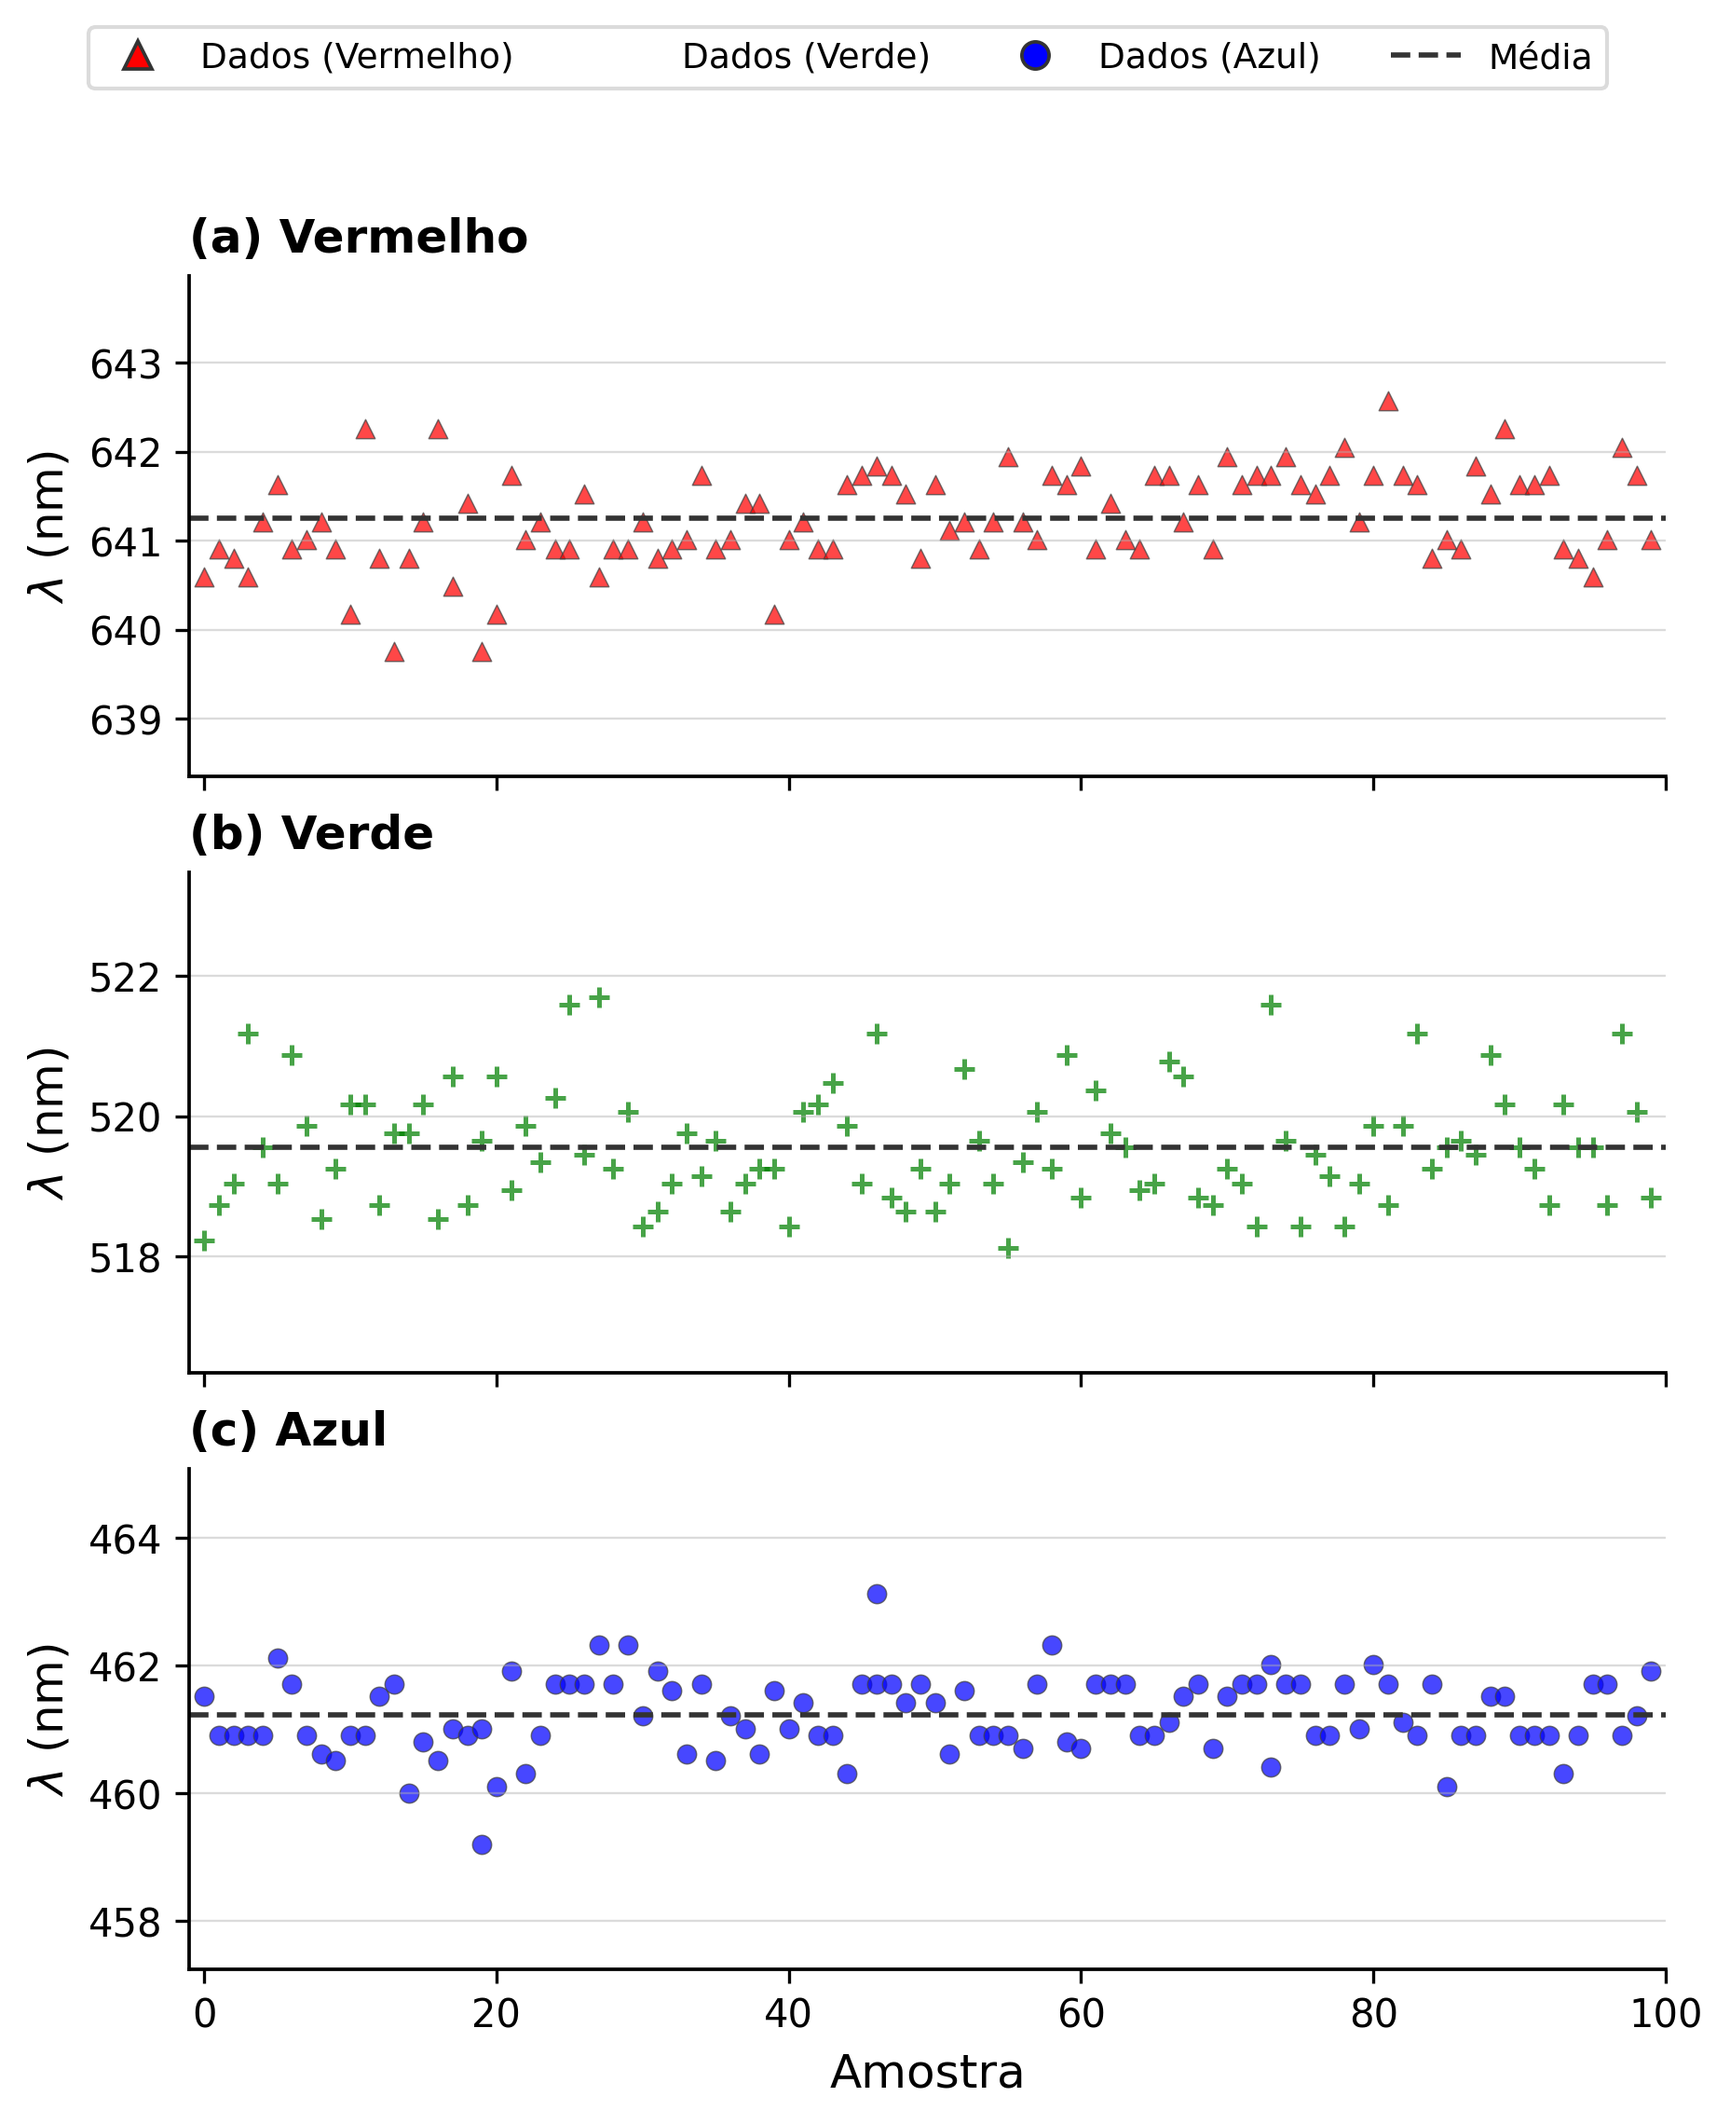
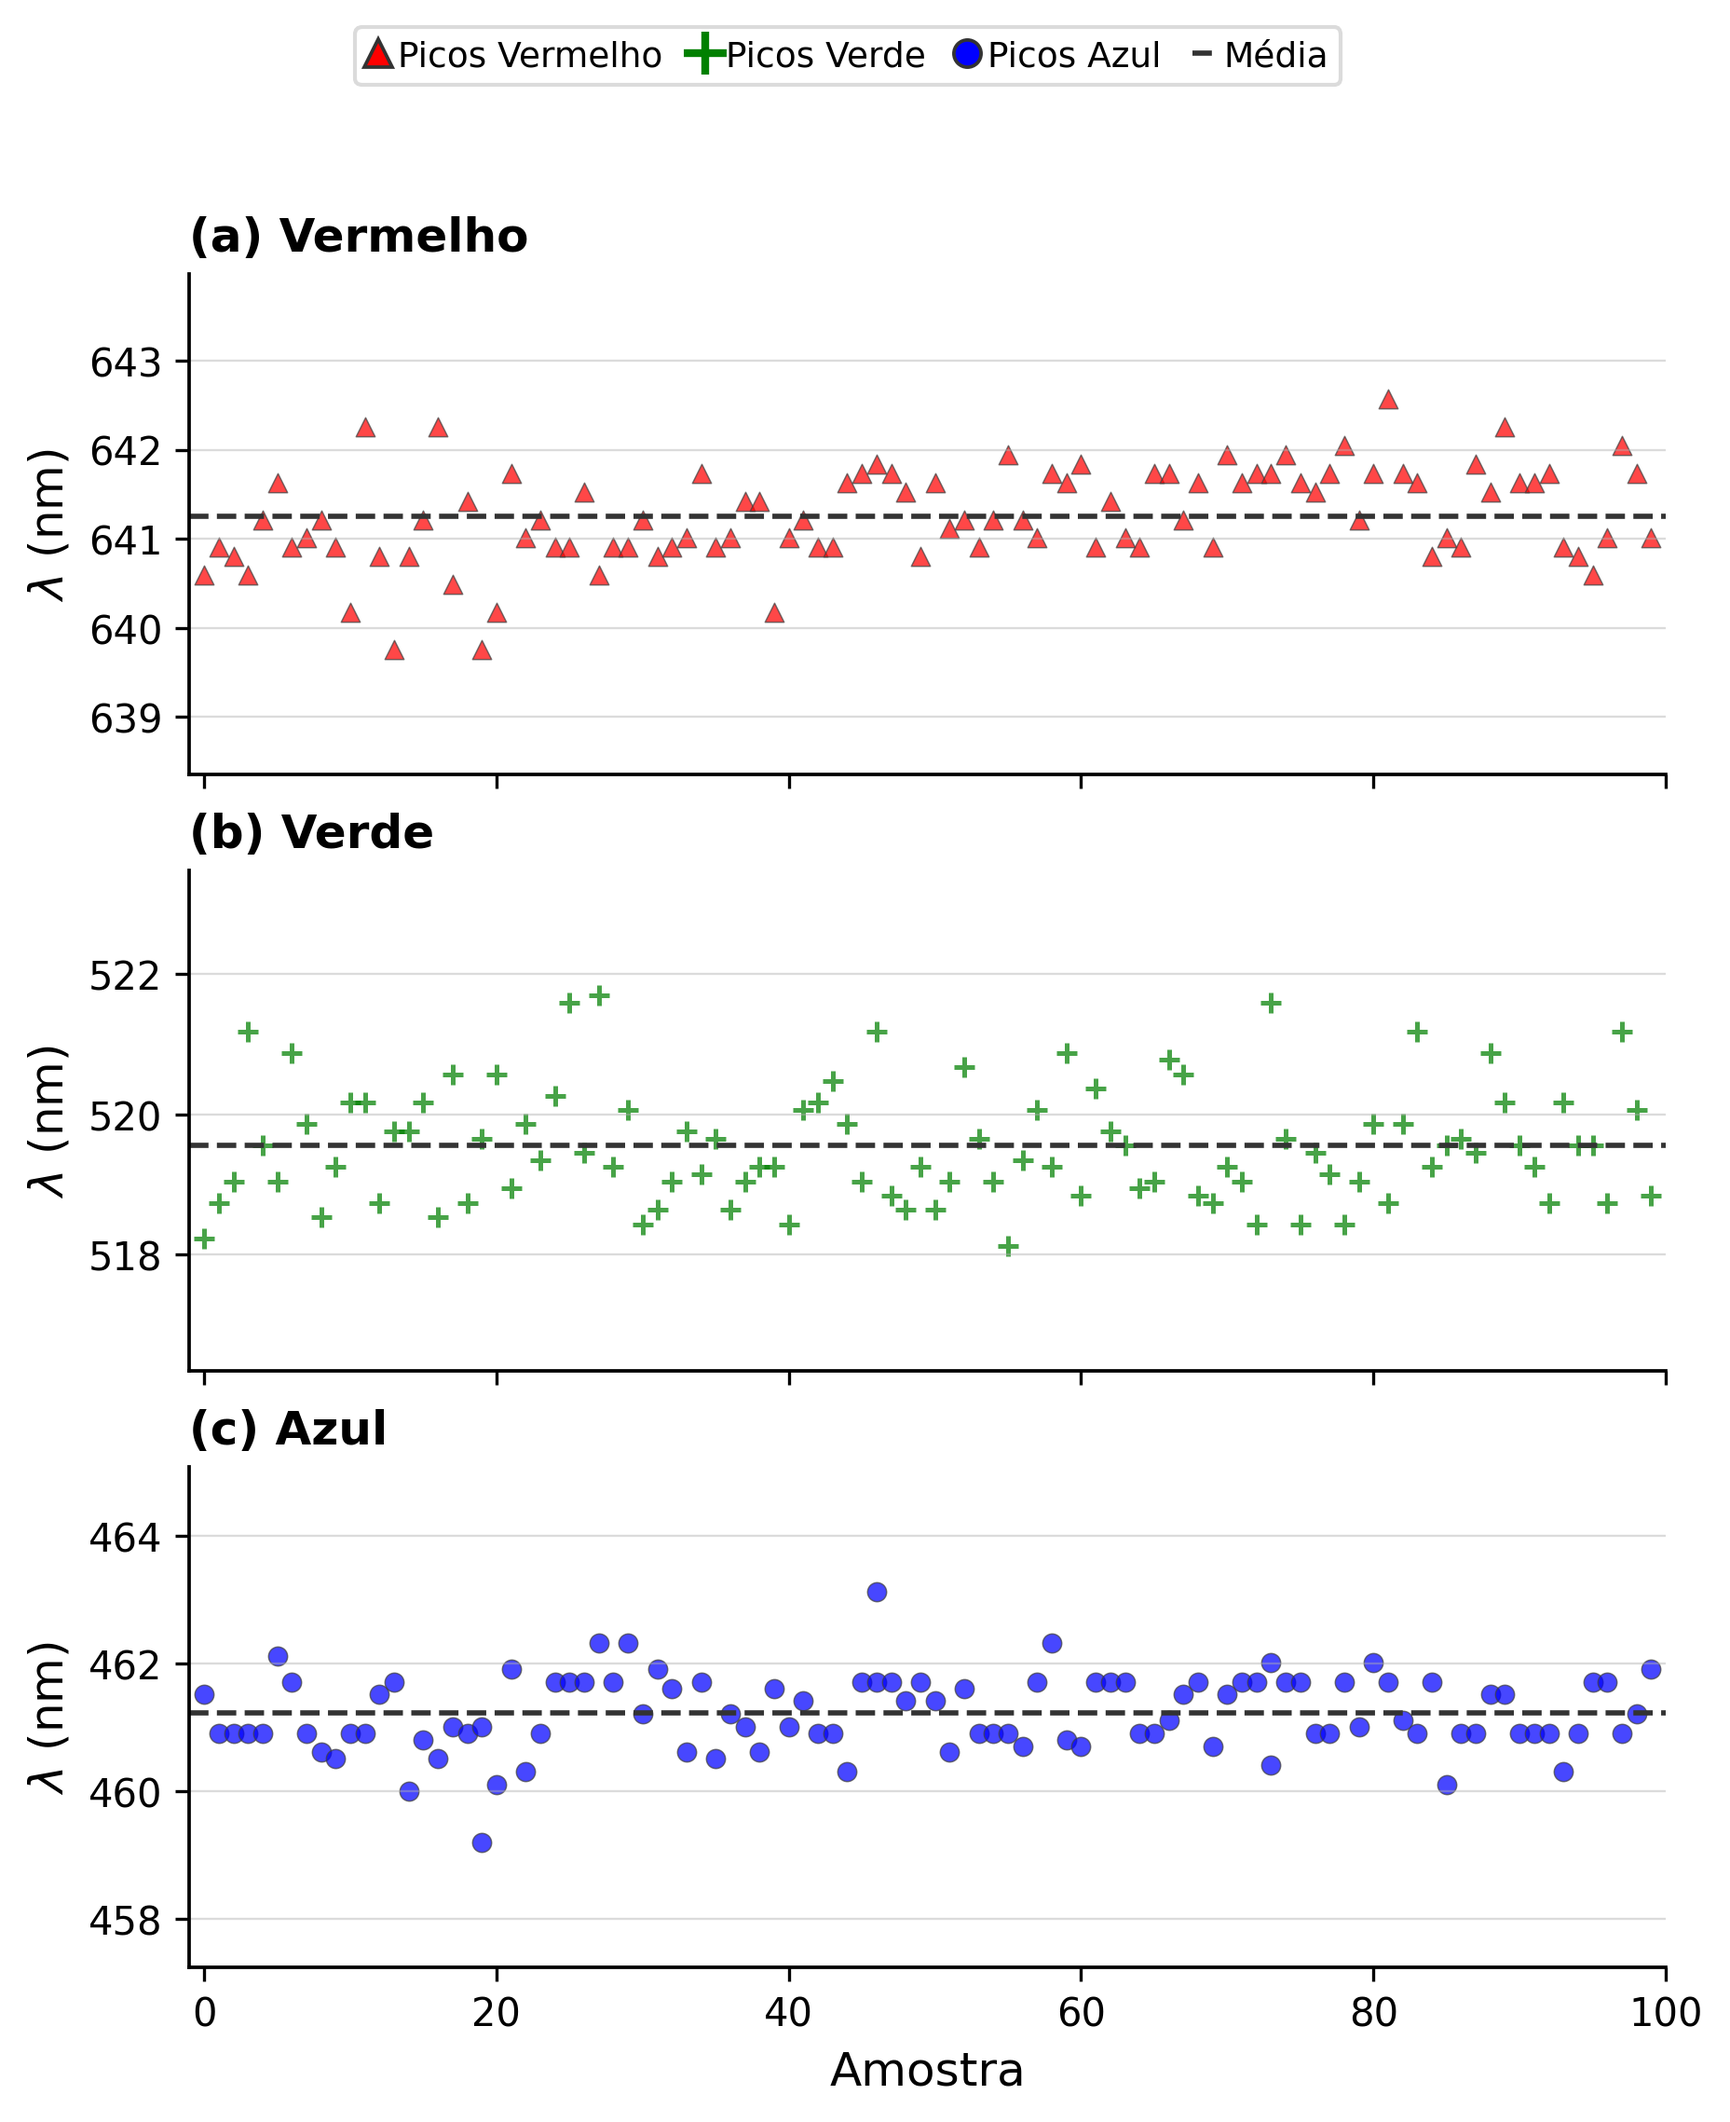
Fix temporal legend plus marker and tighten legend labels
Use stroked plus handle for green channel legend, rename entries to Picos <cor>, and reduce handletextpad/columnspacing for tighter legend layout; regenerate evolucao_temporal figures.

Made-with: Cursor

diff --git a/Experimentos/scripts/analise2paper.py b/Experimentos/scripts/analise2paper.py
@@ -690,25 +690,41 @@ def gerar_graficos_estatisticos(grupos_picos, estatisticas_df, fonte="visible"):
         handles_legenda = []
         for idx, (_, gd) in enumerate(pairs_ordered):
             mk = markers_temporal[idx % len(markers_temporal)]
-            nome = gd.get("nome_cor", "?")
-            ms = 7 if mk != "+" else 8
+            nome = str(gd.get("nome_cor", "?")).strip()
+            lbl = f"Picos {nome}"
             c_cor = gd.get("cor_rgb", "blue")
-            mew = 0.9 if mk != "+" else 0.0
-            mec = "0.2" if mk != "+" else c_cor
-            handles_legenda.append(
-                Line2D(
-                    [0],
-                    [0],
-                    marker=mk,
-                    linestyle="none",
-                    color=c_cor,
-                    markerfacecolor=c_cor,
-                    markeredgecolor=mec,
-                    markersize=ms,
-                    markeredgewidth=mew,
-                    label=f"Dados ({nome})",
+            # Marcador '+' na legenda: contorno grosso (sem preenchimento), senão some no PDF.
+            if mk == "+":
+                handles_legenda.append(
+                    Line2D(
+                        [0],
+                        [0],
+                        marker="+",
+                        linestyle="none",
+                        color=c_cor,
+                        markerfacecolor="none",
+                        markeredgecolor=c_cor,
+                        markersize=11,
+                        markeredgewidth=2.0,
+                        label=lbl,
+                    )
                 )
-            )
+            else:
+                ms = 7
+                handles_legenda.append(
+                    Line2D(
+                        [0],
+                        [0],
+                        marker=mk,
+                        linestyle="none",
+                        color=c_cor,
+                        markerfacecolor=c_cor,
+                        markeredgecolor="0.2",
+                        markersize=ms,
+                        markeredgewidth=0.9,
+                        label=lbl,
+                    )
+                )
         handles_legenda.append(
             Line2D([0], [0], color="0.2", linestyle="--", linewidth=1.35, label="Média")
         )
@@ -721,6 +737,10 @@ def gerar_graficos_estatisticos(grupos_picos, estatisticas_df, fonte="visible"):
             framealpha=0.95,
             edgecolor="0.85",
             fontsize=9,
+            handletextpad=0.28,
+            columnspacing=0.9,
+            handlelength=0.6,
+            borderpad=0.35,
         )
         out1 = pasta_output / "evolucao_temporal_3_picos_RGB.png"
         fig.savefig(out1, dpi=300, bbox_inches="tight")
